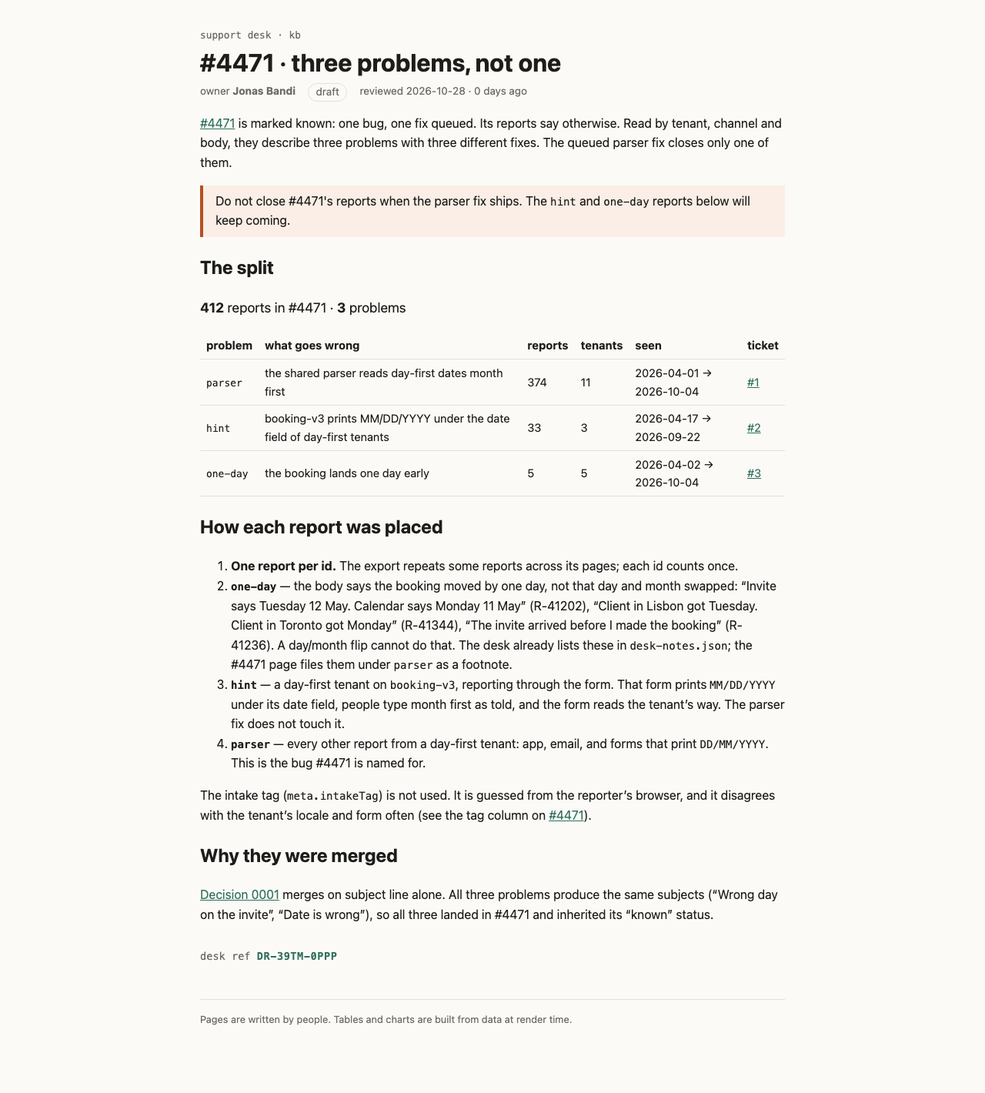
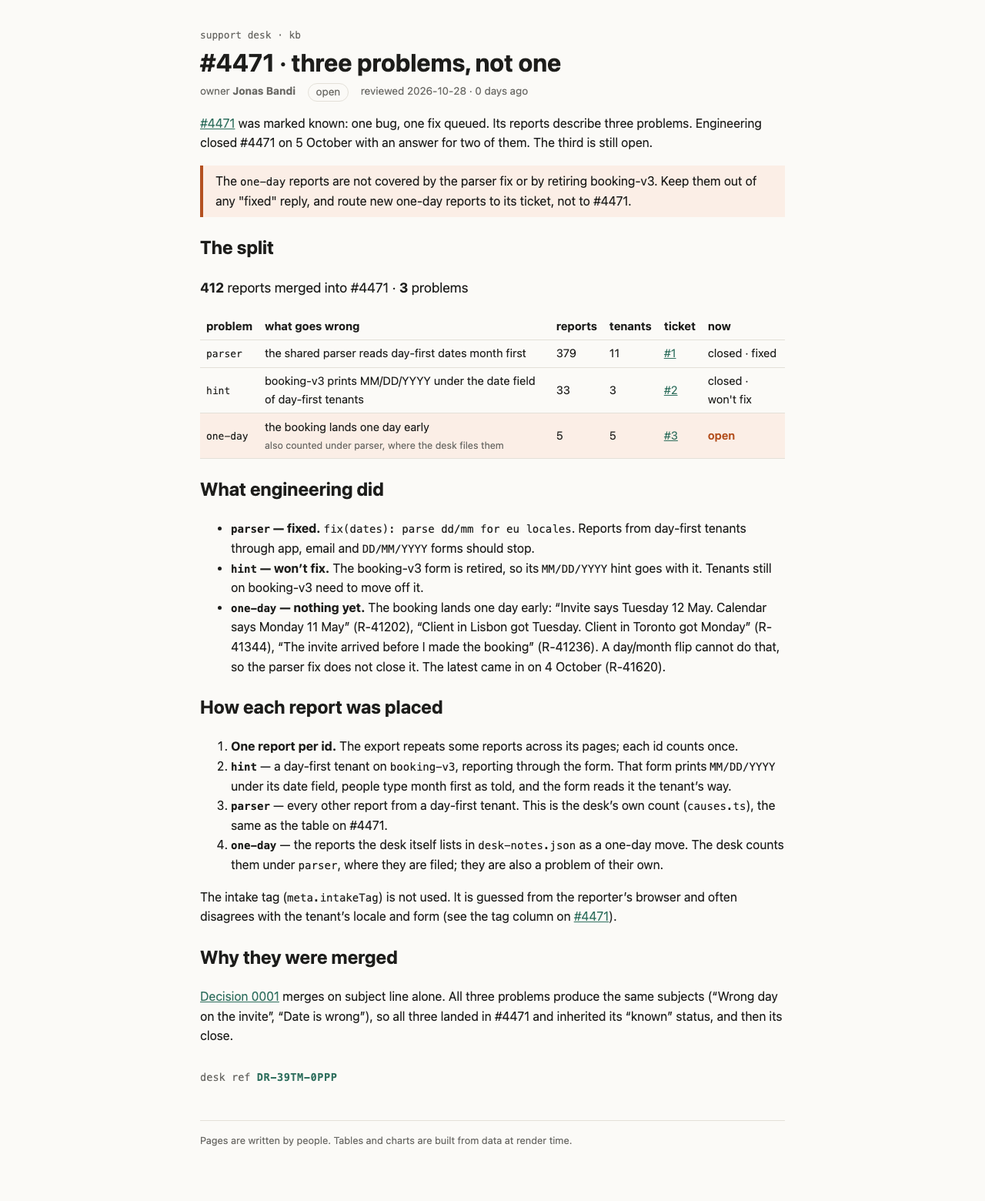
Page: desk's counts, engineering update of 5 Oct, one-day still open

diff --git a/build/kb/incidents/4471/problems.html b/build/kb/incidents/4471/problems.html
@@ -6,41 +6,46 @@
 		<link href="../../../_app/immutable/chunks/B2Ul7l_u.js" rel="modulepreload">
 		<link href="../../../_app/immutable/chunks/BCPXOG7W.js" rel="modulepreload">
 		<link href="../../../_app/immutable/chunks/Dh1V97Jm.js" rel="modulepreload">
-		<link href="../../../_app/immutable/entry/app.DJVA0nKp.js" rel="modulepreload">
+		<link href="../../../_app/immutable/entry/app.7fKshZpi.js" rel="modulepreload">
 		<link href="../../../_app/immutable/nodes/0.C9KfiiPz.js" rel="modulepreload">
 		<link href="../../../_app/immutable/chunks/DK3Fl9T5.js" rel="modulepreload">
-		<link href="../../../_app/immutable/nodes/5.CW0CKPJo.js" rel="modulepreload">
-		<link href="../../../_app/immutable/chunks/7iKBFODI.js" rel="modulepreload">
+		<link href="../../../_app/immutable/nodes/5.Bgzf2aEK.js" rel="modulepreload">
+		<link href="../../../_app/immutable/chunks/BysRTGpV.js" rel="modulepreload">
 		<link href="../../../_app/immutable/chunks/BTPwLomz.js" rel="modulepreload">
 		<link href="../../../_app/immutable/chunks/CVBzP17p.js" rel="modulepreload">
 		<link href="../../../_app/immutable/chunks/BIy4WKJS.js" rel="modulepreload">
 		<!--e2jw2j--><!----><title>#4471 · three problems, not one · support kb</title>
 		<link href="../../../_app/immutable/assets/runbook.COyw0cbZ.css" rel="stylesheet">
 		<link href="../../../_app/immutable/assets/Callout.AbLv9dM_.css" rel="stylesheet">
-		<link href="../../../_app/immutable/assets/_page.BZb6cwmm.css" rel="stylesheet"></head>
-  <body><div style="display: contents"><!--[--><!--[--><!--[0--><!--[--><!--[--><!--[-1--><!--[--><div class="kb svelte-e2jw2j"><header><a class="crumb svelte-e2jw2j" href="/kb">support desk · kb</a> <h1 class="svelte-e2jw2j">#4471 · three problems, not one</h1> <p class="meta svelte-e2jw2j"><span>owner <b>Jonas Bandi</b></span> <span class="status draft svelte-e2jw2j">draft</span> <span class="svelte-e2jw2j">reviewed 2026-10-28 · 0 days ago</span></p></header> <!--[-1--><!--]--> <main><p><a href="/kb/incidents/4471">#4471</a> is marked known: one bug, one fix queued. Its reports say otherwise.
-Read by tenant, channel and body, they describe three problems with three different fixes. The
-queued parser fix closes only one of them.</p> <aside class="warn svelte-17bri61"><!---->Do not close #4471's reports when the parser fix ships. The <code>hint</code> and <code>one-day</code> reports below will keep coming.<!----></aside><!----> <h2>The split</h2> <p class="sum svelte-1op6c6"><strong>412</strong> reports in #4471 · <strong>3</strong> problems</p> <table><thead><tr><th>problem</th><th>what goes wrong</th><th>reports</th><th>tenants</th><th>seen</th><th>ticket</th></tr></thead><tbody><!--[--><tr><td><code>parser</code></td><td>the shared parser reads day-first dates month first</td><td>374</td><td>11</td><td>2026-04-01 → 2026-10-04</td><td><!--[0--><a href="https://github.com/jbandi/mega-s01e03-support-kb/issues/1">#1</a><!--]--></td></tr><tr><td><code>hint</code></td><td>booking-v3 prints MM/DD/YYYY under the date field of day-first tenants</td><td>33</td><td>3</td><td>2026-04-17 → 2026-09-22</td><td><!--[0--><a href="https://github.com/jbandi/mega-s01e03-support-kb/issues/2">#2</a><!--]--></td></tr><tr><td><code>one-day</code></td><td>the booking lands one day early</td><td>5</td><td>5</td><td>2026-04-02 → 2026-10-04</td><td><!--[0--><a href="https://github.com/jbandi/mega-s01e03-support-kb/issues/3">#3</a><!--]--></td></tr><!--]--></tbody></table><!----> <h2>How each report was placed</h2> <ol><li><strong>One report per id.</strong> The export repeats some reports across its pages; each id counts once.</li> <li><strong><code>one-day</code></strong> — the body says the booking moved by one day, not that day and month swapped:
-“Invite says Tuesday 12 May. Calendar says Monday 11 May” (R-41202), “Client in Lisbon got
-Tuesday. Client in Toronto got Monday” (R-41344), “The invite arrived before I made the
-booking” (R-41236). A day/month flip cannot do that. The desk already lists these in <code>desk-notes.json</code>; the #4471 page files them under <code>parser</code> as a footnote.</li> <li><strong><code>hint</code></strong> — a day-first tenant on <code>booking-v3</code>, reporting through the form. That form prints <code>MM/DD/YYYY</code> under its date field, people type month first as told, and the form reads the
-tenant’s way. The parser fix does not touch it.</li> <li><strong><code>parser</code></strong> — every other report from a day-first tenant: app, email, and forms that print <code>DD/MM/YYYY</code>. This is the bug #4471 is named for.</li></ol> <p>The intake tag (<code>meta.intakeTag</code>) is not used. It is guessed from the reporter’s browser, and it
-disagrees with the tenant’s locale and form often (see the tag column on <a href="/kb/incidents/4471">#4471</a>).</p> <h2>Why they were merged</h2> <p><a href="/kb/decisions/0001-dedupe-by-subject">Decision 0001</a> merges on subject line alone. All three
+		<link href="../../../_app/immutable/assets/_page.BJcUf5MG.css" rel="stylesheet"></head>
+  <body><div style="display: contents"><!--[--><!--[--><!--[0--><!--[--><!--[--><!--[-1--><!--[--><div class="kb svelte-e2jw2j"><header><a class="crumb svelte-e2jw2j" href="/kb">support desk · kb</a> <h1 class="svelte-e2jw2j">#4471 · three problems, not one</h1> <p class="meta svelte-e2jw2j"><span>owner <b>Jonas Bandi</b></span> <span class="status open svelte-e2jw2j">open</span> <span class="svelte-e2jw2j">reviewed 2026-10-28 · 0 days ago</span></p></header> <!--[-1--><!--]--> <main><p><a href="/kb/incidents/4471">#4471</a> was marked known: one bug, one fix queued. Its reports describe three
+problems. Engineering closed #4471 on 5 October with an answer for two of them. The third is
+still open.</p> <aside class="warn svelte-17bri61"><!---->The <code>one-day</code> reports are not covered by the parser fix or by retiring booking-v3.
+Keep them out of any "fixed" reply, and route new one-day reports to its ticket, not to #4471.<!----></aside><!----> <h2>The split</h2> <p class="sum svelte-1op6c6"><strong>412</strong> reports merged into #4471 · <strong>3</strong> problems</p> <table><thead><tr><th>problem</th><th>what goes wrong</th><th>reports</th><th>tenants</th><th>ticket</th><th>now</th></tr></thead><tbody><!--[--><tr class="svelte-1op6c6"><td class="svelte-1op6c6"><code>parser</code></td><td class="svelte-1op6c6">the shared parser reads day-first dates month first<!--[-1--><!--]--></td><td class="svelte-1op6c6">379</td><td class="svelte-1op6c6">11</td><td class="svelte-1op6c6"><!--[0--><a href="https://github.com/jbandi/mega-s01e03-support-kb/issues/1">#1</a><!--]--></td><td class="svelte-1op6c6">closed · fixed</td></tr><tr class="svelte-1op6c6"><td class="svelte-1op6c6"><code>hint</code></td><td class="svelte-1op6c6">booking-v3 prints MM/DD/YYYY under the date field of day-first tenants<!--[-1--><!--]--></td><td class="svelte-1op6c6">33</td><td class="svelte-1op6c6">3</td><td class="svelte-1op6c6"><!--[0--><a href="https://github.com/jbandi/mega-s01e03-support-kb/issues/2">#2</a><!--]--></td><td class="svelte-1op6c6">closed · won't fix</td></tr><tr class="svelte-1op6c6 open"><td class="svelte-1op6c6"><code>one-day</code></td><td class="svelte-1op6c6">the booking lands one day early<!--[0--><br/><span class="note svelte-1op6c6">also counted under parser, where the desk files them</span><!--]--></td><td class="svelte-1op6c6">5</td><td class="svelte-1op6c6">5</td><td class="svelte-1op6c6"><!--[0--><a href="https://github.com/jbandi/mega-s01e03-support-kb/issues/3">#3</a><!--]--></td><td class="svelte-1op6c6">open</td></tr><!--]--></tbody></table><!----> <h2>What engineering did</h2> <ul><li><strong><code>parser</code> — fixed.</strong> <code>fix(dates): parse dd/mm for eu locales</code>. Reports from day-first tenants
+through app, email and <code>DD/MM/YYYY</code> forms should stop.</li> <li><strong><code>hint</code> — won’t fix.</strong> The booking-v3 form is retired, so its <code>MM/DD/YYYY</code> hint goes with it.
+Tenants still on booking-v3 need to move off it.</li> <li><strong><code>one-day</code> — nothing yet.</strong> The booking lands one day early: “Invite says Tuesday 12 May.
+Calendar says Monday 11 May” (R-41202), “Client in Lisbon got Tuesday. Client in Toronto got
+Monday” (R-41344), “The invite arrived before I made the booking” (R-41236). A day/month flip
+cannot do that, so the parser fix does not close it. The latest came in on 4 October (R-41620).</li></ul> <h2>How each report was placed</h2> <ol><li><strong>One report per id.</strong> The export repeats some reports across its pages; each id counts once.</li> <li><strong><code>hint</code></strong> — a day-first tenant on <code>booking-v3</code>, reporting through the form. That form prints <code>MM/DD/YYYY</code> under its date field, people type month first as told, and the form reads it the
+tenant’s way.</li> <li><strong><code>parser</code></strong> — every other report from a day-first tenant. This is the desk’s own count
+(<code>causes.ts</code>), the same as the table on #4471.</li> <li><strong><code>one-day</code></strong> — the reports the desk itself lists in <code>desk-notes.json</code> as a one-day move. The
+desk counts them under <code>parser</code>, where they are filed; they are also a problem of their own.</li></ol> <p>The intake tag (<code>meta.intakeTag</code>) is not used. It is guessed from the reporter’s browser and often
+disagrees with the tenant’s locale and form (see the tag column on <a href="/kb/incidents/4471">#4471</a>).</p> <h2>Why they were merged</h2> <p><a href="/kb/decisions/0001-dedupe-by-subject">Decision 0001</a> merges on subject line alone. All three
 problems produce the same subjects (“Wrong day on the invite”, “Date is wrong”), so all three
-landed in #4471 and inherited its “known” status.</p> <!--[0--><p class="stamp svelte-1280m42">desk ref <b class="svelte-1280m42">DR-39TM-0PPP</b></p><!--]--><!----><!----></main> <footer class="svelte-e2jw2j">Pages are written by people. Tables and charts are built from data at render time.</footer></div><!--]--><!--]--><!--]--><!----><!--]--><!--]--><!--]--><!----> <!--[-1--><!--]--><!--]-->
+landed in #4471 and inherited its “known” status, and then its close.</p> <!--[0--><p class="stamp svelte-1280m42">desk ref <b class="svelte-1280m42">DR-39TM-0PPP</b></p><!--]--><!----><!----></main> <footer class="svelte-e2jw2j">Pages are written by people. Tables and charts are built from data at render time.</footer></div><!--]--><!--]--><!--]--><!----><!--]--><!--]--><!--]--><!----> <!--[-1--><!--]--><!--]-->
 			
 			<script>
 				{
-					__sveltekit_4hed9v = {
+					__sveltekit_10q2863 = {
 						base: new URL("../../..", location).pathname.slice(0, -1),
-						version: "1793221033308"
+						version: "1793221144031"
 					};
 
 					const element = document.currentScript.parentElement;
 
 					import("../../../_app/immutable/entry/start.CH5w6lId.js").then(async (kit) => {
-						kit.init(__sveltekit_4hed9v);
-						const app = await import("../../../_app/immutable/entry/app.DJVA0nKp.js");
+						kit.init(__sveltekit_10q2863);
+						const app = await import("../../../_app/immutable/entry/app.7fKshZpi.js");
 						kit.start(app, element, {
 							node_ids: [0, 5],
 							data: [null,null],

diff --git a/build/_app/immutable/chunks/BysRTGpV.js b/build/_app/immutable/chunks/BysRTGpV.js
@@ -1,0 +1,15 @@
+import{t as e}from"./DK3Fl9T5.js";import{E as t,F as n,H as r,I as i,K as a,L as o,N as s,R as c,S as l,T as u,U as d,W as f,_ as p,c as m,d as h,h as g,k as _,n as v,q as y,r as b,t as x,w as S}from"./BCPXOG7W.js";import{t as C}from"./BTPwLomz.js";import{n as w,t as T}from"./CVBzP17p.js";import{a as E,l as D,o as O,r as k,t as A}from"./BIy4WKJS.js";var j={parser:`the shared parser reads day-first dates month first`,hint:`booking-v3 prints MM/DD/YYYY under the date field of day-first tenants`,"one-day":`the booking lands one day early`,unplaced:`no tenant on file, or a month-first tenant`},M=t(`<br/><span class="note svelte-1op6c6"> </span>`,1),N=t(`<a> </a>`),P=t(`<span class="none svelte-1op6c6">none</span>`),F=t(`<tr><td class="svelte-1op6c6"><code> </code></td><td class="svelte-1op6c6"> <!></td><td class="svelte-1op6c6"> </td><td class="svelte-1op6c6"> </td><td class="svelte-1op6c6"><!></td><td class="svelte-1op6c6"> </td></tr>`),I=t(`<p class="sum svelte-1op6c6"><strong> </strong> <strong> </strong> problems</p> <table><thead><tr><th>problem</th><th>what goes wrong</th><th>reports</th><th>tenants</th><th>ticket</th><th>now</th></tr></thead><tbody></tbody></table>`,1);function L(e,t){f(t,!0);let u=v(t,`tickets`,19,()=>({})),b=r(()=>D(w).filter(e=>e.mergedInto===t.ticket)),x=r(()=>E(_(b),k)),C=r(()=>_(b).filter(e=>T.oneDayMove.includes(e.id))),A=r(()=>_(x).find(e=>O(e,T.oneDayMove)>0)?.cause),L=r(()=>[..._(x).map(e=>({problem:e.cause,count:e.reports.length,tenants:e.tenants,note:``})),{problem:`one-day`,count:_(C).length,tenants:new Set(_(C).map(e=>e.tenant)).size,note:_(A)?`also counted under ${_(A)}, where the desk files them`:``}]),R=e=>e.replace(/.*\/issues\//,`#`);var z=I(),B=i(z),V=n(B),H=o(V,!0),U=c(V),W=c(U),G=o(W,!0);a(),y(B);var K=c(B,2),q=c(n(K));g(q,21,()=>_(L),e=>e.problem,(e,t)=>{let a=r(()=>u()[_(t).problem]);var d=F();let f;var g=n(d),v=n(g),b=o(v,!0);y(g);var x=c(g),C=n(x,!0),w=c(C),T=e=>{var n=M(),r=c(i(n)),a=o(r,!0);s(()=>l(a,_(t).note)),S(e,n)};p(w,e=>{_(t).note&&e(T)}),y(x);var E=c(x),D=o(E,!0),O=c(E),k=o(O,!0),A=c(O),I=n(A),L=e=>{var t=N(),n=o(t,!0);s(e=>{m(t,`href`,_(a).url),l(n,e)},[()=>R(_(a).url)]),S(e,t)},z=e=>{var t=P();S(e,t)};p(I,e=>{_(a)?e(L):e(z,-1)}),y(A);var B=c(A),V=o(B,!0);y(d),s(e=>{f=h(d,1,`svelte-1op6c6`,null,f,{open:e}),l(b,_(t).problem),l(C,j[_(t).problem]),l(D,_(t).count),l(k,_(t).tenants),l(V,_(a)?.state??``)},[()=>_(a)?.state.startsWith(`open`)]),S(e,d)}),y(q),y(K),s(()=>{l(H,_(b).length),l(U,` reports merged into #${t.ticket??``} · `),l(G,_(L).length)}),S(e,z),d()}var R=`0123456789ABCDEFGHJKMNPQRSTVWXYZ`;function z(e,t){let n=t>>>0;for(let t=0;t<e.length;t++)n^=e.charCodeAt(t),n=Math.imul(n,16777619)>>>0;return n}function B(e){let t=e.trim(),n=z(t,2166136261),r=z(t,2654435769),i=BigInt(n)<<8n|BigInt(r&255),a=``;for(let e=0;e<8;e++)a=R[Number(i&31n)]+a,i>>=5n;return`DR-${a.slice(0,4)}-${a.slice(4)}`}var V=t(`<p class="stamp svelte-1280m42">desk ref <b class="svelte-1280m42"> </b></p>`),H=t(`<p class="stamp missing svelte-1280m42">no desk ref: this page isn't signed (no <code>signature</code> in its frontmatter)</p>`);function U(e,t){f(t,!0);let a=r(()=>t.signature?B(t.signature):null);var m=u(),h=i(m),g=e=>{var t=V(),r=c(n(t)),i=o(r,!0);y(t),s(()=>l(i,_(a))),S(e,t)},v=e=>{var t=H();S(e,t)};p(h,e=>{_(a)?e(g):e(v,-1)}),S(e,m),d()}var W=e({default:()=>$,metadata:()=>G}),G={layout:`runbook`,title:`#4471 · three problems, not one`,owner:`Jonas Bandi`,status:`open`,reviewed:`2026-10-28T00:00:00.000Z`,signature:`Jonas Bandi`},{layout:K,title:q,owner:J,status:Y,reviewed:ee,signature:X}=G,Z=t(`The <code>one-day</code> reports are not covered by the parser fix or by retiring booking-v3.
+Keep them out of any "fixed" reply, and route new one-day reports to its ticket, not to #4471.`,1),Q=t(`<p><a href="/kb/incidents/4471">#4471</a> was marked known: one bug, one fix queued. Its reports describe three
+problems. Engineering closed #4471 on 5 October with an answer for two of them. The third is
+still open.</p> <!> <h2>The split</h2> <!> <h2>What engineering did</h2> <ul><li><strong><code>parser</code> — fixed.</strong> <code>fix(dates): parse dd/mm for eu locales</code>. Reports from day-first tenants
+through app, email and <code>DD/MM/YYYY</code> forms should stop.</li> <li><strong><code>hint</code> — won’t fix.</strong> The booking-v3 form is retired, so its <code>MM/DD/YYYY</code> hint goes with it.
+Tenants still on booking-v3 need to move off it.</li> <li><strong><code>one-day</code> — nothing yet.</strong> The booking lands one day early: “Invite says Tuesday 12 May.
+Calendar says Monday 11 May” (R-41202), “Client in Lisbon got Tuesday. Client in Toronto got
+Monday” (R-41344), “The invite arrived before I made the booking” (R-41236). A day/month flip
+cannot do that, so the parser fix does not close it. The latest came in on 4 October (R-41620).</li></ul> <h2>How each report was placed</h2> <ol><li><strong>One report per id.</strong> The export repeats some reports across its pages; each id counts once.</li> <li><strong><code>hint</code></strong> — a day-first tenant on <code>booking-v3</code>, reporting through the form. That form prints <code>MM/DD/YYYY</code> under its date field, people type month first as told, and the form reads it the
+tenant’s way.</li> <li><strong><code>parser</code></strong> — every other report from a day-first tenant. This is the desk’s own count
+(<code>causes.ts</code>), the same as the table on #4471.</li> <li><strong><code>one-day</code></strong> — the reports the desk itself lists in <code>desk-notes.json</code> as a one-day move. The
+desk counts them under <code>parser</code>, where they are filed; they are also a problem of their own.</li></ol> <p>The intake tag (<code>meta.intakeTag</code>) is not used. It is guessed from the reporter’s browser and often
+disagrees with the tenant’s locale and form (see the tag column on <a href="/kb/incidents/4471">#4471</a>).</p> <h2>Why they were merged</h2> <p><a href="/kb/decisions/0001-dedupe-by-subject">Decision 0001</a> merges on subject line alone. All three
+problems produce the same subjects (“Wrong day on the invite”, “Date is wrong”), so all three
+landed in #4471 and inherited its “known” status, and then its close.</p> <!>`,1);function $(e,t){let n=x(t,[`children`,`$$slots`,`$$events`,`$$legacy`]);C(e,b(()=>n,()=>G,{children:(e,t)=>{var n=Q(),r=c(i(n),2);A(r,{kind:`warn`,children:(e,t)=>{a();var n=Z();a(2),S(e,n)},$$slots:{default:!0}});var o=c(r,4);L(o,{ticket:4471,tickets:{parser:{url:`https://github.com/jbandi/mega-s01e03-support-kb/issues/1`,state:`closed · fixed`},hint:{url:`https://github.com/jbandi/mega-s01e03-support-kb/issues/2`,state:`closed · won't fix`},"one-day":{url:`https://github.com/jbandi/mega-s01e03-support-kb/issues/3`,state:`open`}}}),U(c(o,16),{get signature(){return X}}),S(e,n)},$$slots:{default:!0}}))}export{$ as n,W as t};

diff --git a/build/kb.html b/build/kb.html
@@ -6,39 +6,39 @@
 		<link href="./_app/immutable/chunks/B2Ul7l_u.js" rel="modulepreload">
 		<link href="./_app/immutable/chunks/BCPXOG7W.js" rel="modulepreload">
 		<link href="./_app/immutable/chunks/Dh1V97Jm.js" rel="modulepreload">
-		<link href="./_app/immutable/entry/app.DJVA0nKp.js" rel="modulepreload">
+		<link href="./_app/immutable/entry/app.7fKshZpi.js" rel="modulepreload">
 		<link href="./_app/immutable/nodes/0.C9KfiiPz.js" rel="modulepreload">
 		<link href="./_app/immutable/chunks/DK3Fl9T5.js" rel="modulepreload">
-		<link href="./_app/immutable/nodes/2.CrDWXyLf.js" rel="modulepreload">
+		<link href="./_app/immutable/nodes/2.htyIJLsQ.js" rel="modulepreload">
 		<link href="./_app/immutable/chunks/BTPwLomz.js" rel="modulepreload">
 		<link href="./_app/immutable/chunks/YX22L_Ud.js" rel="modulepreload">
 		<link href="./_app/immutable/chunks/CgeRC4yK.js" rel="modulepreload">
 		<link href="./_app/immutable/chunks/CVBzP17p.js" rel="modulepreload">
 		<link href="./_app/immutable/chunks/BIy4WKJS.js" rel="modulepreload">
-		<link href="./_app/immutable/chunks/7iKBFODI.js" rel="modulepreload">
+		<link href="./_app/immutable/chunks/BysRTGpV.js" rel="modulepreload">
 		<link href="./_app/immutable/chunks/BGqJVSDw.js" rel="modulepreload">
 		<!--e2jw2j--><!----><title>Support knowledge base · support kb</title>
 		<link href="./_app/immutable/assets/runbook.COyw0cbZ.css" rel="stylesheet">
 		<link href="./_app/immutable/assets/Callout.AbLv9dM_.css" rel="stylesheet">
 		<link href="./_app/immutable/assets/_page.D56XP2ro.css" rel="stylesheet">
-		<link href="./_app/immutable/assets/_page.BZb6cwmm.css" rel="stylesheet">
+		<link href="./_app/immutable/assets/_page.BJcUf5MG.css" rel="stylesheet">
 		<link href="./_app/immutable/assets/_page.DO6Yid7X.css" rel="stylesheet">
 		<link href="./_app/immutable/assets/2.Bt0MwIZg.css" rel="stylesheet"></head>
-  <body><div style="display: contents"><!--[--><!--[--><!--[0--><!--[--><!--[--><!--[-1--><!--[--><div class="kb svelte-e2jw2j"><header><a class="crumb svelte-e2jw2j" href="/kb">support desk · kb</a> <h1 class="svelte-e2jw2j">Support knowledge base</h1> <p class="meta svelte-e2jw2j"><span>owner <b>support desk</b></span> <span class="status living svelte-e2jw2j">living</span> <span class="svelte-e2jw2j">reviewed 2026-09-28 · 30 days ago</span></p></header> <!--[-1--><!--]--> <main><p>What the support desk knows, kept next to the code that knows it. One desk, every product: <code>sched-prod</code> (calendar invites for about 300k people) and the rest. When something breaks, the reports land here first.</p> <p>Start with <a href="/kb/triage/dedupe">triage</a> if you are new on the desk.</p> <h2>Pages</h2> <table><thead><tr><th>page</th><th>owner</th><th>status</th><th>reviewed</th></tr></thead><tbody><!--[--><tr><td><a href="/kb/decisions/0001-dedupe-by-subject">0001 · Duplicates share a subject line</a></td><td>rune</td><td>accepted</td><td class="svelte-tbc1ha stale">2024-06-11</td></tr><tr><td><a href="/kb/incidents/4471">#4471 · dates parse mm/dd in eu locales</a></td><td>support desk</td><td>known</td><td class="svelte-tbc1ha">2026-09-30</td></tr><tr><td><a href="/kb/incidents/4471/problems">#4471 · three problems, not one</a></td><td>Jonas Bandi</td><td>draft</td><td class="svelte-tbc1ha">2026-10-28</td></tr><tr><td><a href="/kb/triage/dedupe">Triage: duplicate reports</a></td><td>support desk</td><td>accepted</td><td class="svelte-tbc1ha stale">2024-06-11</td></tr><!--]--></tbody></table><!----> <h2>Writing a page</h2> <p>Keep the words here and the logic in <code>src/lib</code>. A number that can be computed should be
+  <body><div style="display: contents"><!--[--><!--[--><!--[0--><!--[--><!--[--><!--[-1--><!--[--><div class="kb svelte-e2jw2j"><header><a class="crumb svelte-e2jw2j" href="/kb">support desk · kb</a> <h1 class="svelte-e2jw2j">Support knowledge base</h1> <p class="meta svelte-e2jw2j"><span>owner <b>support desk</b></span> <span class="status living svelte-e2jw2j">living</span> <span class="svelte-e2jw2j">reviewed 2026-09-28 · 30 days ago</span></p></header> <!--[-1--><!--]--> <main><p>What the support desk knows, kept next to the code that knows it. One desk, every product: <code>sched-prod</code> (calendar invites for about 300k people) and the rest. When something breaks, the reports land here first.</p> <p>Start with <a href="/kb/triage/dedupe">triage</a> if you are new on the desk.</p> <h2>Pages</h2> <table><thead><tr><th>page</th><th>owner</th><th>status</th><th>reviewed</th></tr></thead><tbody><!--[--><tr><td><a href="/kb/decisions/0001-dedupe-by-subject">0001 · Duplicates share a subject line</a></td><td>rune</td><td>accepted</td><td class="svelte-tbc1ha stale">2024-06-11</td></tr><tr><td><a href="/kb/incidents/4471">#4471 · dates parse mm/dd in eu locales</a></td><td>support desk</td><td>known</td><td class="svelte-tbc1ha">2026-09-30</td></tr><tr><td><a href="/kb/incidents/4471/problems">#4471 · three problems, not one</a></td><td>Jonas Bandi</td><td>open</td><td class="svelte-tbc1ha">2026-10-28</td></tr><tr><td><a href="/kb/triage/dedupe">Triage: duplicate reports</a></td><td>support desk</td><td>accepted</td><td class="svelte-tbc1ha stale">2024-06-11</td></tr><!--]--></tbody></table><!----> <h2>Writing a page</h2> <p>Keep the words here and the logic in <code>src/lib</code>. A number that can be computed should be
 computed by a component, not typed into a paragraph.</p><!----></main> <footer class="svelte-e2jw2j">Pages are written by people. Tables and charts are built from data at render time.</footer></div><!--]--><!--]--><!--]--><!----><!--]--><!--]--><!--]--><!----> <!--[-1--><!--]--><!--]-->
 			
 			<script>
 				{
-					__sveltekit_4hed9v = {
+					__sveltekit_10q2863 = {
 						base: new URL(".", location).pathname.slice(0, -1),
-						version: "1793221033308"
+						version: "1793221144031"
 					};
 
 					const element = document.currentScript.parentElement;
 
 					import("./_app/immutable/entry/start.CH5w6lId.js").then(async (kit) => {
-						kit.init(__sveltekit_4hed9v);
-						const app = await import("./_app/immutable/entry/app.DJVA0nKp.js");
+						kit.init(__sveltekit_10q2863);
+						const app = await import("./_app/immutable/entry/app.7fKshZpi.js");
 						kit.start(app, element, {
 							node_ids: [0, 2],
 							data: [null,null],

diff --git a/src/lib/kb/ProblemTable.svelte b/src/lib/kb/ProblemTable.svelte
@@ -1,38 +1,49 @@
 <script lang="ts">
   import reports from '#lib/data/reports-4471.json';
   import notes from '#lib/data/desk-notes.json';
-  import type { Report } from '#lib/kb/causes';
+  import { groupByCause, readAs, uniqueById, type Report } from '#lib/kb/causes';
   import { tenantOf } from '#lib/kb/locales';
-  import { groupByProblem, PROBLEMS, type Problem } from '#lib/kb/problems';
+  import { PROBLEMS, type Problem } from '#lib/kb/problems';
 
-  // issues: the ticket each problem has now, by problem.
-  let { ticket, issues = {} }: { ticket: number; issues?: Partial<Record<Problem, string>> } = $props();
+  type Ticket = { url: string; state: string };
+  // tickets: the ticket each problem has now, and where it stands.
+  let { ticket, tickets = {} }: { ticket: number; tickets?: Partial<Record<Problem, Ticket>> } = $props();
 
-  const groups = $derived(groupByProblem(reports as Report[], ticket, tenantOf, notes.oneDayMove));
-  const total = $derived(groups.reduce((n, g) => n + g.reports.length, 0));
+  // The desk's own view (causes.ts), so these counts match CauseTable on #4471.
+  const merged = $derived(uniqueById(reports as Report[]).filter((r) => r.mergedInto === ticket));
+  const groups = $derived(groupByCause(merged, tenantOf));
+  const oneDay = $derived(merged.filter((r) => notes.oneDayMove.includes(r.id)));
+  const filedUnder = $derived(groups.find((g) => readAs(g, notes.oneDayMove) > 0)?.cause);
+  const rows = $derived([
+    ...groups.map((g) => ({ problem: g.cause as Problem, count: g.reports.length, tenants: g.tenants, note: '' })),
+    {
+      problem: 'one-day' as Problem,
+      count: oneDay.length,
+      tenants: new Set(oneDay.map((r) => r.tenant)).size,
+      note: filedUnder ? `also counted under ${filedUnder}, where the desk files them` : '',
+    },
+  ]);
   const issueNo = (url: string) => url.replace(/.*\/issues\//, '#');
 </script>
 
 <p class="sum">
-  <strong>{total}</strong> reports in #{ticket} · <strong>{groups.length}</strong>
-  {groups.length === 1 ? 'problem' : 'problems'}
+  <strong>{merged.length}</strong> reports merged into #{ticket} · <strong>{rows.length}</strong> problems
 </p>
 
 <table>
   <thead>
-    <tr><th>problem</th><th>what goes wrong</th><th>reports</th><th>tenants</th><th>seen</th><th>ticket</th></tr>
+    <tr><th>problem</th><th>what goes wrong</th><th>reports</th><th>tenants</th><th>ticket</th><th>now</th></tr>
   </thead>
   <tbody>
-    {#each groups as g (g.problem)}
-      <tr>
-        <td><code>{g.problem}</code></td>
-        <td>{PROBLEMS[g.problem]}</td>
-        <td>{g.reports.length}</td>
-        <td>{g.tenants}</td>
-        <td>{g.firstSeen} → {g.lastSeen}</td>
-        <td>
-          {#if issues[g.problem]}<a href={issues[g.problem]}>{issueNo(issues[g.problem]!)}</a>{:else}<span class="none">none yet</span>{/if}
-        </td>
+    {#each rows as r (r.problem)}
+      {@const t = tickets[r.problem]}
+      <tr class:open={t?.state.startsWith('open')}>
+        <td><code>{r.problem}</code></td>
+        <td>{PROBLEMS[r.problem]}{#if r.note}<br /><span class="note">{r.note}</span>{/if}</td>
+        <td>{r.count}</td>
+        <td>{r.tenants}</td>
+        <td>{#if t}<a href={t.url}>{issueNo(t.url)}</a>{:else}<span class="none">none</span>{/if}</td>
+        <td>{t?.state ?? ''}</td>
       </tr>
     {/each}
   </tbody>
@@ -40,5 +51,8 @@
 
 <style>
   .sum { font-size: 1.1rem; }
+  .note { color: var(--muted); font-size: 0.85em; }
   .none { color: var(--warn); font-weight: 600; }
+  .open td { background: var(--warn-bg); }
+  .open td:last-child { color: var(--warn); font-weight: 600; }
 </style>

diff --git a/build/_app/immutable/nodes/2.htyIJLsQ.js b/build/_app/immutable/nodes/2.htyIJLsQ.js
@@ -1,0 +1,2 @@
+import{E as e,F as t,I as n,K as r,L as i,N as a,R as o,S as s,U as c,W as l,c as u,d,h as f,i as p,k as m,q as h,r as g,t as _,w as v}from"../chunks/BCPXOG7W.js";import{n as y,r as b,t as x}from"../chunks/BTPwLomz.js";import{t as S}from"../chunks/YX22L_Ud.js";import{t as C}from"../chunks/CgeRC4yK.js";import{t as w}from"../chunks/BysRTGpV.js";import{t as T}from"../chunks/BGqJVSDw.js";var E=e(`<tr><td><a> </a></td><td> </td><td> </td><td> </td></tr>`),D=e(`<table><thead><tr><th>page</th><th>owner</th><th>status</th><th>reviewed</th></tr></thead><tbody></tbody></table>`);function O(e,n){l(n,!1);let r=Object.entries(Object.assign({"/src/routes/kb/decisions/0001-dedupe-by-subject/+page.svx":S,"/src/routes/kb/incidents/4471/+page.svx":C,"/src/routes/kb/incidents/4471/problems/+page.svx":w,"/src/routes/kb/triage/dedupe/+page.svx":T})).map(([e,t])=>({href:e.replace(`/src/routes`,``).replace(`/+page.svx`,``),...t.metadata})).sort((e,t)=>e.href.localeCompare(t.href));p();var g=D(),_=o(t(g));f(_,5,()=>r,e=>e.href,(e,n)=>{var r=E(),c=t(r),l=t(c),f=i(l,!0);h(c);var p=o(c),g=i(p,!0),_=o(p),x=i(_,!0),S=o(_);let C;var w=i(S,!0);h(r),a((e,t)=>{u(l,`href`,m(n).href),s(f,m(n).title),s(g,m(n).owner),s(x,m(n).status),C=d(S,1,`svelte-tbc1ha`,null,C,{stale:e}),s(w,t)},[()=>y(m(n).reviewed)>180,()=>b(m(n).reviewed)]),v(e,r)}),h(_),h(g),v(e,g),c()}var k={layout:`runbook`,title:`Support knowledge base`,owner:`support desk`,status:`living`,reviewed:`2026-09-28T00:00:00.000Z`},{layout:A,title:j,owner:M,status:N,reviewed:P}=k,F=e(`<p>What the support desk knows, kept next to the code that knows it. One desk, every product: <code>sched-prod</code> (calendar invites for about 300k people) and the rest. When something breaks, the reports land here first.</p> <p>Start with <a href="/kb/triage/dedupe">triage</a> if you are new on the desk.</p> <h2>Pages</h2> <!> <h2>Writing a page</h2> <p>Keep the words here and the logic in <code>src/lib</code>. A number that can be computed should be
+computed by a component, not typed into a paragraph.</p>`,1);function I(e,t){let i=_(t,[`children`,`$$slots`,`$$events`,`$$legacy`]);x(e,g(()=>i,()=>k,{children:(e,t)=>{var i=F();O(o(n(i),6),{}),r(4),v(e,i)},$$slots:{default:!0}}))}export{I as component};

diff --git a/build/_app/immutable/entry/app.7fKshZpi.js b/build/_app/immutable/entry/app.7fKshZpi.js
@@ -1,0 +1,2 @@
+const __vite__mapDeps=(i,m=__vite__mapDeps,d=(m.f||(m.f=["../nodes/0.C9KfiiPz.js","../chunks/DK3Fl9T5.js","../chunks/BCPXOG7W.js","../nodes/1.mOwa9YdW.js","../chunks/Dh1V97Jm.js","./payload.DSmR2FwN.js","../nodes/2.htyIJLsQ.js","../chunks/BTPwLomz.js","../assets/runbook.COyw0cbZ.css","../chunks/YX22L_Ud.js","../chunks/CgeRC4yK.js","../chunks/CVBzP17p.js","../chunks/BIy4WKJS.js","../assets/Callout.AbLv9dM_.css","../assets/_page.D56XP2ro.css","../chunks/BysRTGpV.js","../assets/_page.BJcUf5MG.css","../chunks/BGqJVSDw.js","../assets/_page.DO6Yid7X.css","../assets/2.Bt0MwIZg.css","../nodes/3.DRxPfvn3.js","../nodes/4.rt2PfD_4.js","../nodes/5.Bgzf2aEK.js","../nodes/6.sFtxrtyV.js"])))=>i.map(i=>d[i]);
+import{t as e}from"../chunks/CRzLMJPS.js";var t={},n=[()=>e(()=>import(`../nodes/0.C9KfiiPz.js`),__vite__mapDeps([0,1,2]),import.meta.url),()=>e(()=>import(`../nodes/1.mOwa9YdW.js`),__vite__mapDeps([3,2,4,5]),import.meta.url),()=>e(()=>import(`../nodes/2.htyIJLsQ.js`),__vite__mapDeps([6,2,7,8,9,1,10,11,12,13,14,15,16,17,18,19]),import.meta.url),()=>e(()=>import(`../nodes/3.DRxPfvn3.js`),__vite__mapDeps([20,9,1,2,7,8]),import.meta.url),()=>e(()=>import(`../nodes/4.rt2PfD_4.js`),__vite__mapDeps([21,10,1,2,7,8,11,12,13,14]),import.meta.url),()=>e(()=>import(`../nodes/5.Bgzf2aEK.js`),__vite__mapDeps([22,15,1,2,7,8,11,12,13,16]),import.meta.url),()=>e(()=>import(`../nodes/6.sFtxrtyV.js`),__vite__mapDeps([23,17,1,2,7,8,12,13,18]),import.meta.url)],r=[],i={"/kb":[2],"/kb/decisions/0001-dedupe-by-subject":[3],"/kb/incidents/4471":[4],"/kb/incidents/4471/problems":[5],"/kb/triage/dedupe":[6]},a={handleError:(({kind:e,error:t})=>{e===`unknown`&&console.error(t)}),reroute:(()=>{}),transport:{}},o=Object.fromEntries(Object.entries(a.transport).map(([e,t])=>[e,t.decode])),s=Object.fromEntries(Object.entries(a.transport).map(([e,t])=>[e,t.encode])),c=!1,l=(e,t)=>o[e](t),u=()=>e(()=>import(`../chunks/Bjy-W4x2.js`).then(e=>e.default),[],import.meta.url);export{l as decode,o as decoders,i as dictionary,s as encoders,u as get_error_template,c as hash,a as hooks,t as matchers,n as nodes,r as server_loads};

diff --git a/src/lib/kb/problems.ts b/src/lib/kb/problems.ts
@@ -1,7 +1,6 @@
-// What a report shows, not only where it was filed. causes.ts places a report by its tenant and
-// channel; a report whose body describes a one-day move (desk-notes.json) cannot come from a
-// day/month flip, so it is its own problem here instead of a footnote under `parser`.
-import { causeOf, uniqueById, type Cause, type Report, type Tenant } from '#lib/kb/causes';
+// The problems #4471 holds. `parser` and `hint` are the causes causes.ts places a report in; `one-day`
+// is the desk's own list of one-day moves (desk-notes.json), which a day/month flip cannot produce.
+import type { Cause } from '#lib/kb/causes';
 
 export type Problem = Cause | 'one-day' | 'unplaced';
 
@@ -11,29 +10,3 @@ export const PROBLEMS: Record<Problem, string> = {
   'one-day': 'the booking lands one day early',
   unplaced: 'no tenant on file, or a month-first tenant',
 };
-
-export function problemOf(r: Report, t: Tenant | undefined, oneDayMove: readonly string[]): Problem {
-  if (oneDayMove.includes(r.id)) return 'one-day';
-  return causeOf(r, t) ?? 'unplaced';
-}
-
-export type ProblemGroup = { problem: Problem; reports: Report[]; tenants: number; firstSeen: string; lastSeen: string };
-
-export function groupByProblem(
-  reports: Report[],
-  ticket: number,
-  tenantOf: (r: Report) => Tenant | undefined,
-  oneDayMove: readonly string[],
-): ProblemGroup[] {
-  const by = new Map<Problem, Report[]>();
-  for (const r of uniqueById(reports).filter((r) => r.mergedInto === ticket)) {
-    const p = problemOf(r, tenantOf(r), oneDayMove);
-    by.set(p, [...(by.get(p) ?? []), r]);
-  }
-  return [...by.entries()]
-    .map(([problem, rs]) => {
-      const days = rs.map((r) => r.receivedAt.slice(0, 10)).sort();
-      return { problem, reports: rs, tenants: new Set(rs.map((r) => r.tenant)).size, firstSeen: days[0], lastSeen: days[days.length - 1] };
-    })
-    .sort((a, b) => b.reports.length - a.reports.length);
-}

diff --git a/build/kb/decisions/0001-dedupe-by-subject.html b/build/kb/decisions/0001-dedupe-by-subject.html
@@ -6,7 +6,7 @@
 		<link href="../../_app/immutable/chunks/B2Ul7l_u.js" rel="modulepreload">
 		<link href="../../_app/immutable/chunks/BCPXOG7W.js" rel="modulepreload">
 		<link href="../../_app/immutable/chunks/Dh1V97Jm.js" rel="modulepreload">
-		<link href="../../_app/immutable/entry/app.DJVA0nKp.js" rel="modulepreload">
+		<link href="../../_app/immutable/entry/app.7fKshZpi.js" rel="modulepreload">
 		<link href="../../_app/immutable/nodes/0.C9KfiiPz.js" rel="modulepreload">
 		<link href="../../_app/immutable/chunks/DK3Fl9T5.js" rel="modulepreload">
 		<link href="../../_app/immutable/nodes/3.DRxPfvn3.js" rel="modulepreload">
@@ -21,16 +21,16 @@ engineering merges them later.</li></ul><!----></main> <footer class="svelte-e2j
 			
 			<script>
 				{
-					__sveltekit_4hed9v = {
+					__sveltekit_10q2863 = {
 						base: new URL("../..", location).pathname.slice(0, -1),
-						version: "1793221033308"
+						version: "1793221144031"
 					};
 
 					const element = document.currentScript.parentElement;
 
 					import("../../_app/immutable/entry/start.CH5w6lId.js").then(async (kit) => {
-						kit.init(__sveltekit_4hed9v);
-						const app = await import("../../_app/immutable/entry/app.DJVA0nKp.js");
+						kit.init(__sveltekit_10q2863);
+						const app = await import("../../_app/immutable/entry/app.7fKshZpi.js");
 						kit.start(app, element, {
 							node_ids: [0, 3],
 							data: [null,null],

diff --git a/build/kb/incidents/4471.html b/build/kb/incidents/4471.html
@@ -6,7 +6,7 @@
 		<link href="../../_app/immutable/chunks/B2Ul7l_u.js" rel="modulepreload">
 		<link href="../../_app/immutable/chunks/BCPXOG7W.js" rel="modulepreload">
 		<link href="../../_app/immutable/chunks/Dh1V97Jm.js" rel="modulepreload">
-		<link href="../../_app/immutable/entry/app.DJVA0nKp.js" rel="modulepreload">
+		<link href="../../_app/immutable/entry/app.7fKshZpi.js" rel="modulepreload">
 		<link href="../../_app/immutable/nodes/0.C9KfiiPz.js" rel="modulepreload">
 		<link href="../../_app/immutable/chunks/DK3Fl9T5.js" rel="modulepreload">
 		<link href="../../_app/immutable/nodes/4.rt2PfD_4.js" rel="modulepreload">
@@ -24,16 +24,16 @@ first. The fix is queued.</p> <aside class="note svelte-17bri61"><!---->Known. O
 			
 			<script>
 				{
-					__sveltekit_4hed9v = {
+					__sveltekit_10q2863 = {
 						base: new URL("../..", location).pathname.slice(0, -1),
-						version: "1793221033308"
+						version: "1793221144031"
 					};
 
 					const element = document.currentScript.parentElement;
 
 					import("../../_app/immutable/entry/start.CH5w6lId.js").then(async (kit) => {
-						kit.init(__sveltekit_4hed9v);
-						const app = await import("../../_app/immutable/entry/app.DJVA0nKp.js");
+						kit.init(__sveltekit_10q2863);
+						const app = await import("../../_app/immutable/entry/app.7fKshZpi.js");
 						kit.start(app, element, {
 							node_ids: [0, 4],
 							data: [null,null],

diff --git a/build/kb/triage/dedupe.html b/build/kb/triage/dedupe.html
@@ -6,7 +6,7 @@
 		<link href="../../_app/immutable/chunks/B2Ul7l_u.js" rel="modulepreload">
 		<link href="../../_app/immutable/chunks/BCPXOG7W.js" rel="modulepreload">
 		<link href="../../_app/immutable/chunks/Dh1V97Jm.js" rel="modulepreload">
-		<link href="../../_app/immutable/entry/app.DJVA0nKp.js" rel="modulepreload">
+		<link href="../../_app/immutable/entry/app.7fKshZpi.js" rel="modulepreload">
 		<link href="../../_app/immutable/nodes/0.C9KfiiPz.js" rel="modulepreload">
 		<link href="../../_app/immutable/chunks/DK3Fl9T5.js" rel="modulepreload">
 		<link href="../../_app/immutable/nodes/6.sFtxrtyV.js" rel="modulepreload">
@@ -24,16 +24,16 @@ anything else.<!----></aside><!----> <h2>Try it</h2> <div class="try svelte-gq0h
 			
 			<script>
 				{
-					__sveltekit_4hed9v = {
+					__sveltekit_10q2863 = {
 						base: new URL("../..", location).pathname.slice(0, -1),
-						version: "1793221033308"
+						version: "1793221144031"
 					};
 
 					const element = document.currentScript.parentElement;
 
 					import("../../_app/immutable/entry/start.CH5w6lId.js").then(async (kit) => {
-						kit.init(__sveltekit_4hed9v);
-						const app = await import("../../_app/immutable/entry/app.DJVA0nKp.js");
+						kit.init(__sveltekit_10q2863);
+						const app = await import("../../_app/immutable/entry/app.7fKshZpi.js");
 						kit.start(app, element, {
 							node_ids: [0, 6],
 							data: [null,null],

diff --git a/build/_app/immutable/assets/_page.BJcUf5MG.css b/build/_app/immutable/assets/_page.BJcUf5MG.css
@@ -1,0 +1,1 @@
+.sum.svelte-1op6c6{font-size:1.1rem}.note.svelte-1op6c6{color:var(--muted);font-size:.85em}.none.svelte-1op6c6{color:var(--warn);font-weight:600}.open.svelte-1op6c6 td:where(.svelte-1op6c6){background:var(--warn-bg)}.open.svelte-1op6c6 td:where(.svelte-1op6c6):last-child{color:var(--warn);font-weight:600}.stamp.svelte-1280m42{font:.85rem var(--mono);color:var(--muted);margin:2rem 0 0}.stamp.svelte-1280m42 b:where(.svelte-1280m42){color:var(--accent);letter-spacing:.04em}.missing.svelte-1280m42{color:var(--warn)}

diff --git a/build/_app/immutable/nodes/5.Bgzf2aEK.js b/build/_app/immutable/nodes/5.Bgzf2aEK.js
@@ -1,0 +1,1 @@
+export{n as component}from"../chunks/BysRTGpV.js";
